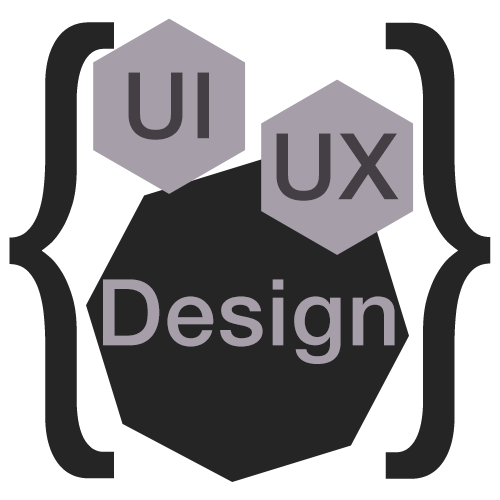
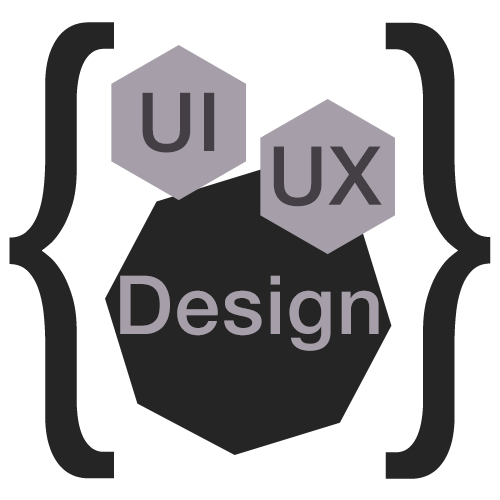
header and nav styled

Changed region(s): [[0.15, 0.15, 0.84, 0.96], [0.18, 0.03, 0.51, 0.33]]

diff --git a/css/app.scss b/css/app.scss
@@ -2,13 +2,10 @@
 ---------------------------------------*/
 /* Colors */
 $black: #000;
-$charcoal: #313131;
+$charcoal: #252525;
 
-$purple-white: #a69faa;
-
-$white: #ffffff;
-$off-white: #e4e4e4;
-
+$links: #a69faa;
+$hover: #965d62;
 
 
 
@@ -16,15 +13,17 @@ $off-white: #e4e4e4;
   -webkit-box-shadow: 0px 6px 24px 0px rgba(0,0,0,0.19);
   -moz-box-shadow: 0px 6px 24px 0px rgba(0,0,0,0.19);
   box-shadow: 0px 6px 24px 0px rgba(0,0,0,0.19)
-}
+};
 
-@mixin translucentpurple {
-  background-color: rgba(166, 159, 170, .19);
-}
+@mixin clickable {
+  color: $links;
+	transition: color 0.3s ease;
 
-@mixin transition {
-	transition: color 0.7s ease;
-}
+  &:hover {
+    color: $hover;
+  };
+};
+
 
 
 /* Body styles
@@ -47,9 +46,29 @@ body {
 /* Nav section
 ---------------------------------------*/
 nav {
-  height: 35px;
-  @include translucentpurple;
+  height: 40px;
   @include boxshadow;
+  background: $charcoal;
+
+  .social {
+    font-size: 1.6em;
+    margin: 0 5.0%;
+    @include clickable;
+
+    &:first-child { margin-left: 0; }
+  }
+
+  .navlinks {
+    margin-top: 3px;
+
+    a {
+      font-size: 1.4em;
+      margin: 0 5.0%;
+      @include clickable;
+
+      &:last-child { margin-right: 0; }
+    }
+  }
 }
 
 /* Header
@@ -58,6 +77,12 @@ nav {
   width: 100%;
   height: 600px;
   background: url(../assets/img/geometry.png) no-repeat;
+
+  padding-top: 60px;
+
+  #logo { margin-bottom: 20px; }
+
+  #sublogo { margin-bottom: 40px; }
 
   .skills {
     img { width: 50%; }
@@ -68,8 +93,8 @@ nav {
 ---------------------------------------*/
 .about {
   height: 400px;
-  @include translucentpurple;
-  @include boxshadow;
+  // @include translucentpurple;
+  // @include boxshadow;
 
 }
 

diff --git a/css/app.css b/css/app.css
@@ -16,29 +16,50 @@ body {
 /* Nav section
 ---------------------------------------*/
 nav {
-  height: 35px;
-  background-color: rgba(166, 159, 170, 0.19);
+  height: 40px;
   -webkit-box-shadow: 0px 6px 24px 0px rgba(0, 0, 0, 0.19);
   -moz-box-shadow: 0px 6px 24px 0px rgba(0, 0, 0, 0.19);
-  box-shadow: 0px 6px 24px 0px rgba(0, 0, 0, 0.19); }
+  box-shadow: 0px 6px 24px 0px rgba(0, 0, 0, 0.19);
+  background: #252525; }
+  nav .social {
+    font-size: 1.6em;
+    margin: 0 5.0%;
+    color: #a69faa;
+    transition: color 0.3s ease; }
+    nav .social:hover {
+      color: #965d62; }
+    nav .social:first-child {
+      margin-left: 0; }
+  nav .navlinks {
+    margin-top: 3px; }
+    nav .navlinks a {
+      font-size: 1.4em;
+      margin: 0 5.0%;
+      color: #a69faa;
+      transition: color 0.3s ease; }
+      nav .navlinks a:hover {
+        color: #965d62; }
+      nav .navlinks a:last-child {
+        margin-right: 0; }
 
 /* Header
 ---------------------------------------*/
 .header {
   width: 100%;
   height: 600px;
-  background: url(../assets/img/geometry.png) no-repeat; }
+  background: url(../assets/img/geometry.png) no-repeat;
+  padding-top: 60px; }
+  .header #logo {
+    margin-bottom: 20px; }
+  .header #sublogo {
+    margin-bottom: 40px; }
   .header .skills img {
     width: 50%; }
 
 /* About
 ---------------------------------------*/
 .about {
-  height: 400px;
-  background-color: rgba(166, 159, 170, 0.19);
-  -webkit-box-shadow: 0px 6px 24px 0px rgba(0, 0, 0, 0.19);
-  -moz-box-shadow: 0px 6px 24px 0px rgba(0, 0, 0, 0.19);
-  box-shadow: 0px 6px 24px 0px rgba(0, 0, 0, 0.19); }
+  height: 400px; }
 
 /* Portfolio
 ---------------------------------------*/

diff --git a/index.html b/index.html
@@ -18,7 +18,7 @@
 </head>
 <body>
 
-<nav class="large-12 columns compress">
+<nav class="large-12 columns compress navbar">
 	<div class="large-6 columns text-left">
 		<a href="https://www.linkedin.com/in/tatianakerick" title="View my LinkedIn page" target="_blank"><i class="fi-social-linkedin social"></i></a>
 
@@ -27,7 +27,7 @@
 		<a href="https://seeyourveines.com" title="Visits my blog" target="_blank"><i class="fi-skull social"></i></a>
 	</div>
 
-	<div class="large-6 columns text-right">
+	<div class="large-6 columns text-right navlinks">
 		<a href="index.html" class="active">Home</a>
 
 		<a href="#contact">Contact</a>
@@ -38,9 +38,9 @@
 
 <div class="large-12 columns text-center header">
 	<div class="row">
-		<img src="assets/img/logo.png">
+		<img id="logo" src="assets/img/logo.png">
 
-		<img src="assets/img/sublogo.png">
+		<img id="sublogo" src="assets/img/sublogo.png">
 	</div>
 
 	<div class="row">

diff --git a/js/script.js b/js/script.js
@@ -1,7 +1,6 @@
 $(function() {
 
 
-
 });
 
 
